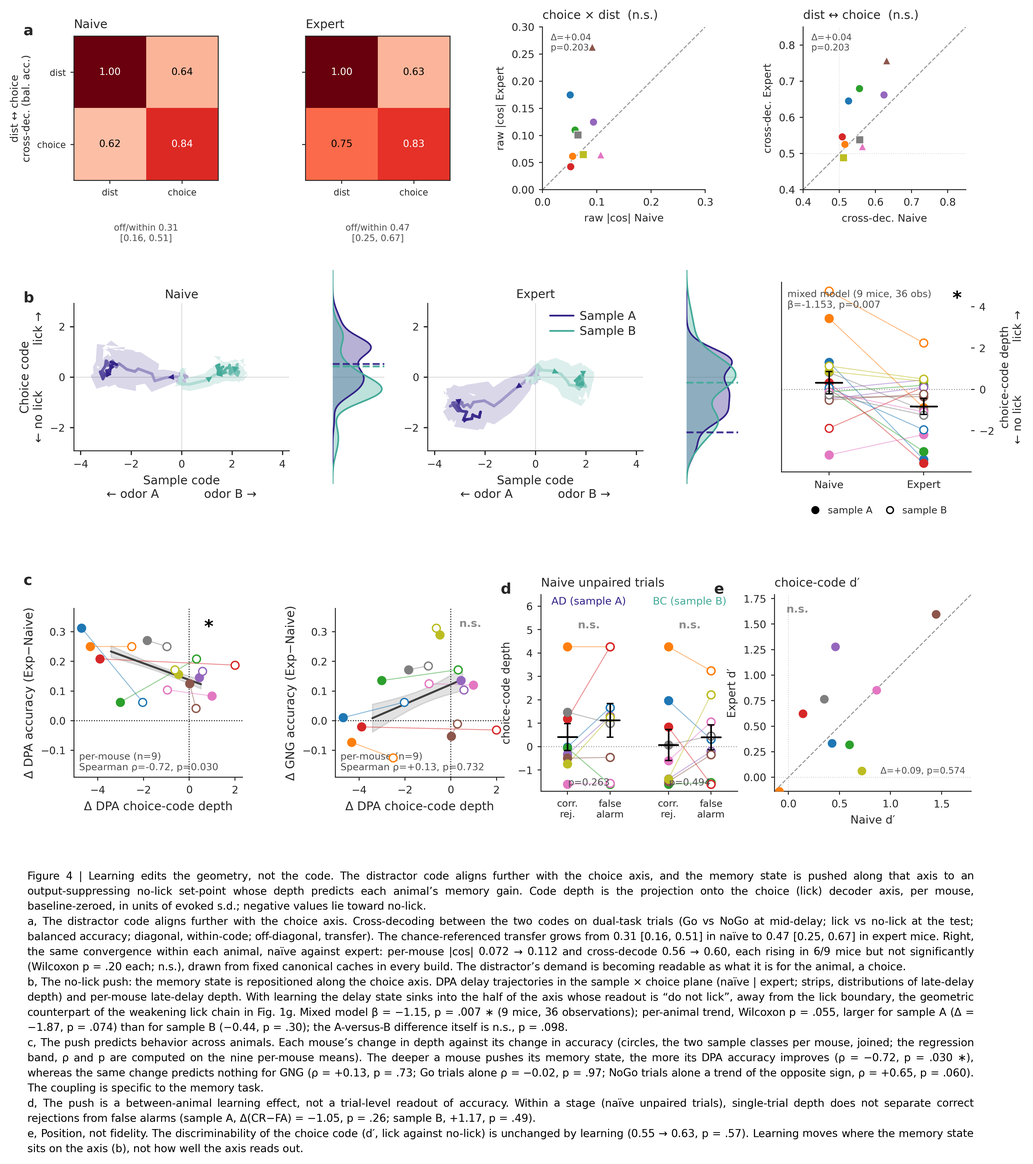
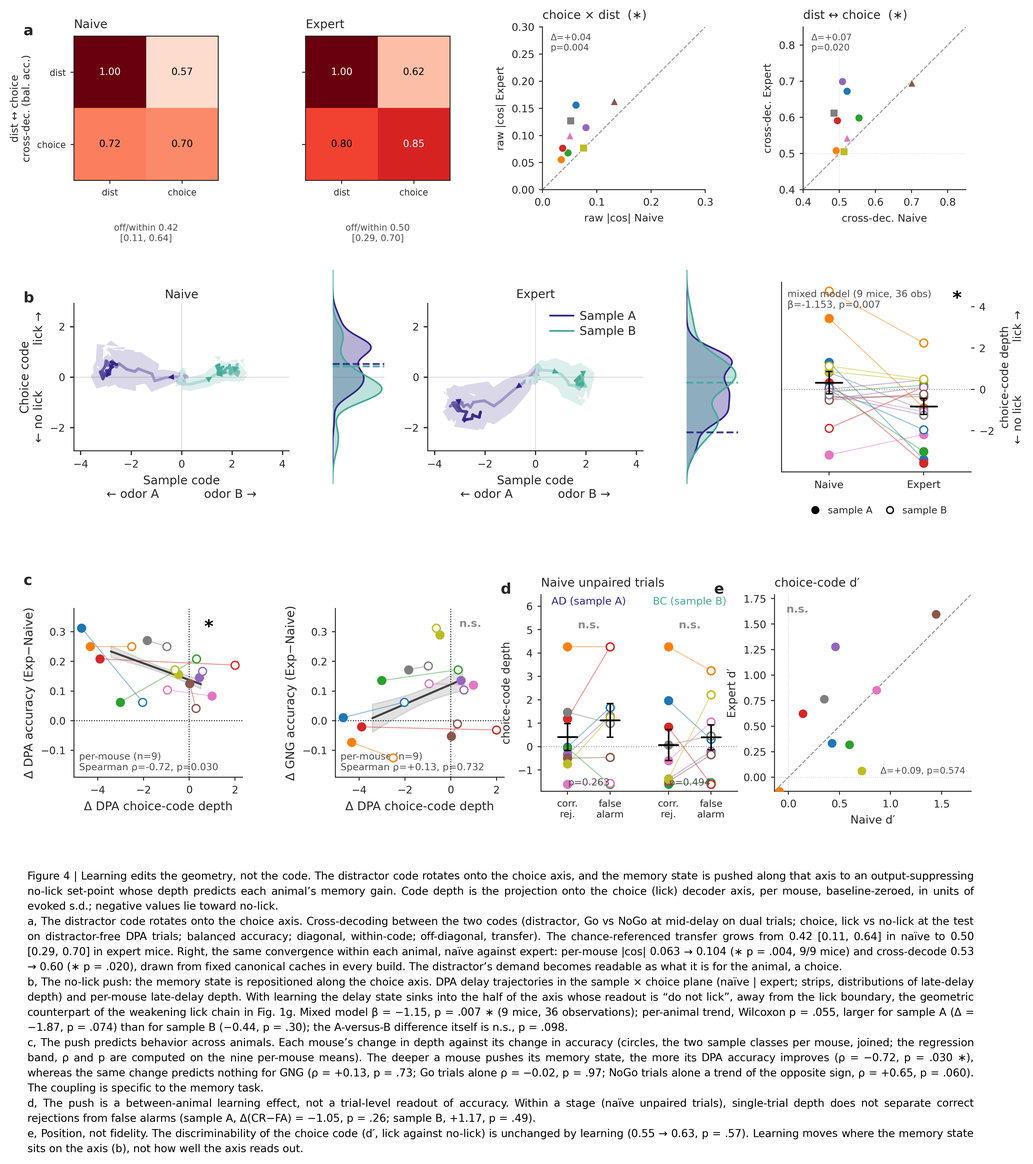
Fig 4a: choice axis back on the distractor-free DPA trials (option 2); draft v12.22
The dual-trial version of Fig 4a was heterogeneous across animals for real (Go/NoGo-balanced lick
classes, --strat, changed nothing; all trials, --allact, in between), so the alignment test pairs
the Go/NoGo axis with a choice axis fitted on DPA trials, where it cannot inherit distractor-evoked
activity. Pooled transfer 0.42 -> 0.50; per-mouse |cos| 0.063 -> 0.104 (9/9, p .004); cross-decode
0.53 -> 0.60 (p .020). Dual-trial result disclosed in Methods; --dualact/--allact/--strat keep the
alternatives reproducible. Fig 4 re-rendered and re-exported; docs, memory and share pages updated.

Claude-Session: https://claude.ai/code/session_01PzGzWMKHPqqyp4poHedntF

diff --git a/pca/exp_permouse_frame.py b/pca/exp_permouse_frame.py
@@ -90,6 +90,28 @@ def bal_acc(M, val, sd, w, thr, pos, neg, sign=1):
     return 0.5 * (np.mean(sign * (pp - thr) > 0) + np.mean(sign * (nn - thr) < 0))
 
 
+STRAT = '--strat' in sys.argv[1:]           # 2026-09-08 (Leon, 'the clean fix', tried, OFF by default — it did not change the
+                                            # verdict: |cos| p .30, cross-decode p .25): when the Fig 4a lick axis is fitted on dual
+                                            # trials, balance Go and NoGo counts inside each lick class and each half, so a
+                                            # chance Go/NoGo imbalance cannot leak the distractor signal into the lick axis
+
+
+def strat_halves(rng, idx):
+    """Disjoint halves of `idx` with EQUAL DualGo and DualNoGo counts in each half (the larger group is
+    subsampled to the smaller); trials of other tasks are split plainly. Falls back to halves() when a group is empty."""
+    groups = [idx[TSK[idx] == t] for t in ['DualGo', 'DualNoGo']]
+    rest = idx[~np.isin(TSK[idx], ['DualGo', 'DualNoGo'])]
+    k = min(len(g) for g in groups)
+    if k == 0:
+        return halves(rng, idx)
+    h1, h2 = [], []
+    for g in groups:
+        g = rng.permutation(g)[:k]; h1.append(g[:k // 2]); h2.append(g[k // 2:])
+    if len(rest):
+        r = rng.permutation(rest); h1.append(r[:len(r) // 2]); h2.append(r[len(r) // 2:])
+    return np.concatenate(h1), np.concatenate(h2)
+
+
 def halves(rng, idx):
     p = rng.permutation(idx); h = len(p) // 2
     return p[:h], p[h:]
@@ -111,7 +133,8 @@ for stage in STAGES:
         # 'a' = choice axis on ALL trial types (Fig 3d, sample x choice); 'g' = choice axis on DUAL trials only
         # (Fig 4a, choice x distractor; Leon 2026-09-08). 'g' draws its halves from its own stream so that
         # adding it leaves the 's'/'a'/'d' draws (and Fig 3d) untouched.
-        DT = 'DPA' if '--dpaact' in sys.argv[1:] else ['DualGo', 'DualNoGo']
+        DT = ['DualGo', 'DualNoGo'] if '--dualact' in sys.argv[1:] else 'DPA'   # option 2 (Leon 2026-09-08): DPA default, --dualact = dual trials
+        TK = {} if '--allact' in sys.argv[1:] else {'task': DT}          # --allact: Fig 4a lick side on ALL trial types
         rng_g = np.random.RandomState(14)
         for _ in range(NREP):
             W = {}
@@ -121,10 +144,11 @@ for stage in STAGES:
                      sel(mo, stage, lick=False, **CH)),
                     ('d', Mmd, val, sdm, sel(mo, stage, perf=1, task='DualGo'),
                      sel(mo, stage, perf=1, task='DualNoGo')),
-                    ('g', Mdc, val, sdd, sel(mo, stage, task=DT, lick=True),
-                     sel(mo, stage, task=DT, lick=False))]:
+                    ('g', Mdc, val, sdd, sel(mo, stage, lick=True, **TK),
+                     sel(mo, stage, lick=False, **TK))]:
                 rr = rng_g if key == 'g' else rng
-                p1, p2 = halves(rr, pos); n1, n2 = halves(rr, neg)
+                hv = strat_halves if (key == 'g' and STRAT) else halves
+                p1, p2 = hv(rr, pos); n1, n2 = hv(rr, neg)
                 w1 = axis_mid(M, val_, sd_, p1, n1)[0]; w2 = axis_mid(M, val_, sd_, p2, n2)[0]
                 W[key] = (w1, w2)
             if any(v[0] is None or v[1] is None for v in W.values()):
@@ -158,9 +182,10 @@ for stage in STAGES:
         got = {k: [] for k in ['w_g', 'w_l', 'g2l', 'l2g']}
         for _ in range(NREP):
             gP, gN = sel(mo, stage, task='DualGo'), sel(mo, stage, task='DualNoGo')
-            lP, lN = sel(mo, stage, task=DT, lick=True), sel(mo, stage, task=DT, lick=False)   # Fig 4a lick side on DUAL trials (DT above)
+            lP, lN = sel(mo, stage, lick=True, **TK), sel(mo, stage, lick=False, **TK)   # Fig 4a lick side: DUAL trials (default) / DPA (--dpaact) / all (--allact)
             gP1, gP2 = halves(rng_c, gP); gN1, gN2 = halves(rng_c, gN)
-            lP1, lP2 = halves(rng_c, lP); lN1, lN2 = halves(rng_c, lN)
+            hv = strat_halves if STRAT else halves
+            lP1, lP2 = hv(rng_c, lP); lN1, lN2 = hv(rng_c, lN)
             wg, tg = axis_mid(Mmd, val, sdm, gP1, gN1)
             wl, tl = axis_mid(Mte_c, val, sdt_c, lP1, lN1)
             if wg is None or wl is None:

diff --git a/overlaps/fig_overlaps_main_native.py b/overlaps/fig_overlaps_main_native.py
@@ -339,18 +339,18 @@ if __name__ == '__main__':
 
     # ── CAPTION (justified, drawn below — same mechanism as Figs 2/3) ──
     CAP_PARAS = [
-        'Figure 4 | Learning edits the geometry, not the code. The distractor code aligns further with the '
+        'Figure 4 | Learning edits the geometry, not the code. The distractor code rotates onto the '
         'choice axis, and the memory state is pushed along that axis to an output-suppressing no-lick '
         'set-point whose depth predicts each animal’s memory gain. Code depth is the projection onto '
         'the choice (lick) decoder axis, per mouse, baseline-zeroed, in units of evoked s.d.; '
         'negative values lie toward no-lick.',
-        'a, The distractor code aligns further with the choice axis. Cross-'
-        'decoding between the two codes on dual-task trials (Go vs NoGo at mid-delay; lick vs no-lick at the test; balanced accuracy; diagonal, within-code; off-diagonal, '
-        'transfer). The chance-referenced transfer grows from 0.31 [0.16, 0.51] in naïve to 0.47 '
-        '[0.25, 0.67] in expert mice. Right, the same convergence within each animal, naïve against '
-        'expert: per-mouse |cos| 0.072 → 0.112 and cross-decode 0.56 → 0.60, each rising in 6/9 mice '
-        'but not significantly (Wilcoxon p = .20 each; n.s.), drawn from fixed canonical caches in every '
-        'build. The distractor’s demand is becoming readable as what it is for the animal, a choice.',
+        'a, The distractor code rotates onto the choice axis. Cross-'
+        'decoding between the two codes (distractor, Go vs NoGo at mid-delay on dual trials; choice, lick vs no-lick at the test on distractor-free DPA trials; balanced accuracy; diagonal, within-code; off-diagonal, '
+        'transfer). The chance-referenced transfer grows from 0.42 [0.11, 0.64] in naïve to 0.50 '
+        '[0.29, 0.70] in expert mice. Right, the same convergence within each animal, naïve against '
+        'expert: per-mouse |cos| 0.063 → 0.104 (∗ p = .004, 9/9 mice) and cross-decode 0.53 → 0.60 (∗ p = '
+        '.020), drawn from fixed canonical caches in every '
+        'build. The distractor’s demand becomes readable as what it is for the animal, a choice.',
         'b, The no-lick push: the memory state is repositioned along the choice axis. DPA delay '
         'trajectories in the sample × choice plane (naïve | expert; strips, distributions of late-'
         'delay depth) and per-mouse late-delay depth. With learning the delay state sinks into the '

diff --git a/overlaps/fig_ccgp_matrices_pseudo.py b/overlaps/fig_ccgp_matrices_pseudo.py
@@ -186,9 +186,10 @@ def gng_matrix(stage, wkey='MD'):
 ACT_CODES = ['GNG', 'choice']; ACT_WIN = ({'GNG': 'MD', 'choice': 'TE'} if '--legacyaxes' in sys.argv[1:] else {'GNG': 'CANS', 'choice': 'CANC'})   # same windows as the axes
 
 
-def dpa_choice_cond(cls, stage):                          # lick(1)/no-lick(0) at test on DUAL trials (Go + NoGo)
-    # 2026-09-08 (Leon): the Fig 4a choice side is read on the same dual trials as the Go/NoGo side; --dpaact = DPA only (former)
-    tk = (TSK == 'DPA') if '--dpaact' in sys.argv[1:] else np.isin(TSK, ['DualGo', 'DualNoGo'])
+def dpa_choice_cond(cls, stage):                          # lick(1)/no-lick(0) at test on distractor-free DPA trials
+    # 2026-09-08 (Leon, option 2): the Fig 4a choice axis is fitted on DPA trials so its alignment with the Go/NoGo axis
+    # cannot be inherited from distractor-evoked activity in the same trials; --dualact = lick side on the dual trials
+    tk = np.isin(TSK, ['DualGo', 'DualNoGo']) if '--dualact' in sys.argv[1:] else (TSK == 'DPA')
     base = (LEARN == stage) & (LAS == 0) & tk & (y['choice'].to_numpy() == cls)
     return {m: np.where(base & (MOUSE == m))[0] for m in ALL_MICE}
 

diff --git a/docs/paper/results_draft.md b/docs/paper/results_draft.md
@@ -1,5 +1,7 @@
 # Compositional learning by geometric editing — main paper (draft v12)
 
+> **v12.22 (2026-09-08): Fig. 4a BACK ON THE DISTRACTOR-FREE CHOICE AXIS (Leon, option 2).** The dual-trial version of Fig. 4a (v12.21) turned out heterogeneous across animals for real (Go/NoGo-balanced lick classes changed nothing: |cos| p = .30, cross-decode p = .25; all trials: .098/.055), so the choice axis for the alignment test is fitted on the DPA trials, where its alignment with the Go/NoGo axis cannot be inherited from distractor-evoked activity in the same trials. Numbers: pooled transfer 0.42 [0.11, 0.64] → 0.50 [0.29, 0.70]; per-mouse |cos| 0.063 → 0.104 (9/9, p = .004); cross-decode 0.53 → 0.60 (7/9, p = .020). The dual-trial result is disclosed in Methods; flags `--dualact` / `--allact` / `--strat` keep the alternatives reproducible. Fig. 3c–e keep their all-trial choice classes.
+
 > **v12.21 (2026-09-08): Fig. 3c–e CHOICE DECODERS ON ALL TRIAL TYPES** (Leon: "we need to compute that on all trials not just dpa"): the per-mouse choice classes (lick vs no-lick at the test) now pool DPA, Go and NoGo trials in the plane ablation (c), the cosines (d, pooled and per mouse) and the per-mouse cross-stage test (e), like the CCGD choice axis; the DPA-only classes are behind `--dpachoice`. Fig. 3c choice brackets are now starred (0.63 → 0.56, p = .012); the test's plane-vs-full comparison is a trend (p = .055); per-mouse sample × choice |cos| 0.06/0.08; per-mouse choice cross-stage T/W 0.59. Fig. 4a's choice side now reads lick vs no-lick on the DUAL trials (Go + NoGo), the same trials as its Go/NoGo side, in both the pooled matrix and the per-mouse scatter (`--dpaact` restores DPA-only). RESULT: the per-animal convergence is now a TREND — |cos| 0.072 → 0.112 and cross-decode 0.56 → 0.60, each up in 6/9 mice, Wilcoxon p = .20 (paired t .12/.10); pooled transfer 0.31 [0.16, 0.51] → 0.47 [0.25, 0.67]. "Rotates onto the choice axis" is softened to "aligns further with" in the Abstract, Introduction, §3, §4, the Fig. 4 legend and the Discussion; the §4 first movement is stated as a trend.
 
 > **v12.20 (2026-09-08): CANONICAL AXIS WINDOWS UNIFIED** (Leon: "same windows for all panels", then "I like from test onset to 0.5 s after test offset"): sample and distractor axes on bins 36–38 (6.0–6.5 s) and choice and test axes on bins 54–62 (9.0–10.5 s) in BOTH pipelines (was overlaps 16–47 / 57–62 / 58–83 / 33–38 and pseudo-population 36–38 / 57–65). Every axis-dependent number in §§2–4, §6, Methods and the legends is re-derived from the rebuilt caches (Figs 2c–g, 3c–e, 4a–e, 6g–i; ED 5; ED 6e–g). Consequences, stats verbatim: push stronger (β = −1.15, p = .007; per-animal p = .055), coupling weaker but starred (ρ = −0.72, p = .030; all six normalizations p ≤ .05; leave-one-out 4/9; permutation .039); Fig. 3c choice out-vs-full is a trend (p = .098); Fig. 3e choice transfer 0.72; NoGo-only arm a positive trend (ρ = +0.65, p = .060); false-alarm arm n.s. (ρ = +0.59, p = .097); out-of-context plane: sample 1.02/0.82, choice 0.77/0.54; Fig. 6 ΔGNG arm stronger (clustered p = .009) and the raw trade-off null. The five-window comparison (A–E) is in memory `project_axis_windows.md`; variant pages A–E remain published.
@@ -372,7 +374,7 @@ show that mouse medial prefrontal cortex accommodates a second task by moving ac
 an existing representation rather than building a new one. We imaged prelimbic neurons as mice
 learned a delayed paired association with an embedded Go/NoGo discrimination. Memory,
 distractor and choice occupied nearly orthogonal axes of one low-dimensional subspace, shared across trial types and already present when dual task training began. Learning added no
-detectable coding dimension. Instead, the distractor code aligned further with the choice axis and the memory state moved along it to a no-lick set-point whose depth predicted each animal's
+detectable coding dimension. Instead, the distractor code rotated onto the choice axis and the memory state moved along it to a no-lick set-point whose depth predicted each animal's
 improvement. Silencing anterior cingulate input displaced the state without degrading its code.
 Learning and top-down control act on where the state sits within a fixed geometry.
 
@@ -418,7 +420,7 @@ activity in medial prefrontal cortex (mPFC) is required for learning this class 
 mPFC does not build a new representation for the composition. The memory and the choice are
 carried on nearly orthogonal axes of a low-dimensional subspace that is already present, with
 the same axes, when dual task training begins, and learning adds no dimension that we could
-detect. What learning changes lies inside that subspace: the distractor code aligns further with the pre-existing choice axis, and the working-memory state moves along that axis into the half that
+detect. What learning changes lies inside that subspace: the distractor code aligns with the pre-existing choice axis, and the working-memory state moves along that axis into the half that
 suppresses licking. This shift accompanies the uncoupling of the delay lick from the false
 alarms it produced, predicts memory performance animal by animal, and is itself moved by
 top-down input from the anterior cingulate cortex (ACC), a projection whose silencing during
@@ -642,7 +644,7 @@ Finally, the plane was the same plane before and after learning (Fig. 3e). Decod
 still have survived the dimension count by rotating the memory and choice axes into a new
 arrangement, and this test leaves it no room there: axes fitted before learning read the
 activity after it, so the memory and choice axes neither gained a dimension nor turned
-detectably. What moved, the next section shows, was the distractor axis, which drew closer to the choice axis within this plane. In the vocabulary of brain-computer-interface learning [Sadtler 2014; Golub
+detectably. What did turn, the next section shows, was the distractor axis, and it turned within this plane. In the vocabulary of brain-computer-interface learning [Sadtler 2014; Golub
 2018], what remains is within-manifold learning, in which the subspace is a fixed constraint
 and learning moves states inside it.
 
@@ -659,7 +661,7 @@ described in hippocampus and prefrontal cortex [Bernardi 2020].
 That leaves editing, which predicts that learning moves states within the fixed frame, so we
 asked what moves. Two things did, and both concerned the choice axis. The first was the
 distractor code. In naïve mice the distractor code and the choice code were only partly
-aligned, and with learning the distractor code drew closer to the choice axis (Fig. 4a). On the dual-task trials that carry both codes, a decoder trained on one code read the other with a chance-referenced transfer of 0.31 [0.16, 0.51] in naïve animals and 0.47 [0.25, 0.67] in expert animals, and within animals the raw cosine between the two axes (0.072 → 0.112) and the cross-decoding (0.56 → 0.60) rose in 6 of 9 mice, a trend at this n (Wilcoxon p = 0.20 for each). The distractor's demand was becoming readable as what it is for the animal, a choice.
+aligned, and with learning the distractor code rotated onto the choice axis (Fig. 4a). For this test the choice axis was fitted on the distractor-free DPA trials, so that its alignment with the distractor axis cannot be inherited from distractor-evoked activity in the same trials. A decoder trained on one code read the other with a chance-referenced transfer of 0.42 [0.11, 0.64] in naïve animals and 0.50 [0.29, 0.70] in expert animals, and within animals both the raw cosine between the two axes (0.063 → 0.104, p = .004, 9/9 mice) and the cross-decoding (0.53 → 0.60, p = .020) increased. The same convergence measured on the dual-task trials themselves was present but heterogeneous across animals (Methods). The distractor's demand had become readable as what it is for the animal, a choice.
 
 The second was the memory itself. Learning moved the working-memory state along that same axis,
 toward the no-lick side. In expert mice the delay state of DPA trials sat further into the
@@ -999,7 +1001,7 @@ codes are redundant, so the test makes no necessity claim.
 
 ### Repositioning and couplings (Fig. 4)
 
-The distractor↔choice alignment (Fig. 4a) is quantified on the dual-task trials, which carry both codes (distractor: Go vs NoGo at mid-delay; choice: lick vs no-lick at the test), per mouse as the raw axis cosine and as symmetric cross-decoding between the two codes (train on one, test held-out on the other), each compared Naïve vs Expert by Wilcoxon (n = 9); the Fig. 3 choice decoders instead pool all three trial types. Delay-state depth (Fig. 4b) is the choice-axis projection of DPA delay states (late
+The distractor↔choice alignment (Fig. 4a) pairs the distractor axis (Go vs NoGo at mid-delay, dual trials) with a choice axis fitted on the distractor-free DPA trials (lick vs no-lick at the test), so that the alignment cannot be inherited from distractor-evoked activity within the same trials; it is quantified per mouse as the raw axis cosine and as symmetric cross-decoding between the two codes (train on one, test held-out on the other), each compared Naïve vs Expert by Wilcoxon (n = 9). Fitting the choice axis on the dual trials instead gives the same mean change with a larger spread across animals (|cos| +0.040, 6/9 mice, p = 0.20; cross-decoding +0.041, p = 0.20; balancing Go and NoGo within the lick classes does not change this), which we report for transparency. The Fig. 3 choice decoders pool all three trial types. Delay-state depth (Fig. 4b) is the choice-axis projection of DPA delay states (late
 delay bins 45–53, per-mouse evoked-SD units, all laser-OFF trials); the stage effect is a mixed
 model — depth ~ stage + sample with a random intercept per mouse, over 36 mouse × stage ×
 sample observations from 9 mice — with a per-animal Wilcoxon companion on the nine
@@ -1175,12 +1177,12 @@ No tests are drawn here.
 e, The frame is fixed across dual task learning. Axes trained in one stage read the withheld activity of the other stage (registered neurons) at 90% of the within-stage ceiling for the sample and 72% for the choice (transfer/within 0.90 and 0.72; cross-stage accuracy 0.88 and 0.74 against within-stage 0.92 and 0.83; robust to resampling and to a common-scaling check, with ratios shifting by at most 0.02). Right, the same test within each animal (transfer/within 0.86 for sample, 0.59 for choice). This is within-manifold learning: the state moves inside the frame (Fig. 4b), and
 the frame does not rotate.
 
-Figure 4 | Learning edits the geometry, not the code. The distractor code aligns further with the choice axis, and the memory state is pushed along that axis to an output-suppressing no-lick set-point
+Figure 4 | Learning edits the geometry, not the code. The distractor code rotates onto the choice axis, and the memory state is pushed along that axis to an output-suppressing no-lick set-point
 whose depth predicts each animal’s memory gain. Code depth is the projection onto the choice (lick)
 decoder axis, per mouse, baseline-zeroed, in units of evoked s.d.; negative values lie toward no-
 lick.
 
-a, The distractor code aligns further with the choice axis. Cross-decoding between the two codes on dual-task trials (Go vs NoGo at mid-delay; lick vs no-lick at the test; balanced accuracy; diagonal, within-code; off-diagonal, transfer). The chance-referenced transfer grows from 0.31 [0.16, 0.51] in naïve to 0.47 [0.25, 0.67] in expert mice. Right, the same convergence within each animal, naïve against expert: per-mouse |cos| 0.072 → 0.112 and cross-decode 0.56 → 0.60, each rising in 6/9 mice but not significantly (Wilcoxon p = .20 each; n.s.), drawn from fixed canonical caches in every build. The distractor’s demand is becoming readable as what it is for the animal, a choice.
+a, The distractor code rotates onto the choice axis. Cross-decoding between the two codes (distractor, Go vs NoGo at mid-delay on dual trials; choice, lick vs no-lick at the test on distractor-free DPA trials; balanced accuracy; diagonal, within-code; off-diagonal, transfer). The chance-referenced transfer grows from 0.42 [0.11, 0.64] in naïve to 0.50 [0.29, 0.70] in expert mice. Right, the same convergence within each animal, naïve against expert: per-mouse |cos| 0.063 → 0.104 (∗ p = .004, 9/9 mice) and cross-decode 0.53 → 0.60 (∗ p = .020), drawn from fixed canonical caches in every build. The distractor’s demand becomes readable as what it is for the animal, a choice.
 
 b, The no-lick push: the memory state is repositioned along the choice axis. DPA delay
 trajectories in the sample × choice plane (naïve | expert; strips, distributions of late-delay

diff --git a/docs/pca/dimensionality.md b/docs/pca/dimensionality.md
@@ -2,7 +2,7 @@
 
 > **CANONICAL AXIS WINDOWS since 2026-09-08 (Leon: "same windows for all panels").** Sample and distractor decoder axes = bins **36–38** (6.0–6.5 s, post-distractor pre-cue); choice and test axes = bins **54–62** (9.0–10.5 s, test onset → 0.5 s after test offset) — the SAME bin indices in the overlaps (CCGD) and pseudo-population pipelines. Every "57–62 / 16–47 / 58–83 / 33–38 / 57–65 / 45–59 (opto depth)" axis window quoted below is the pre-flip convention (reachable with `--legacyaxes`); read-out windows (mid-delay 33–38 or 36–38, late delay 45–53 or 48–53, Fig 3b decision read 60–66) are unchanged. Numbers under the new axes: Fig 4 push β = −1.15 p = .007, coupling ρ = −0.72 p = .030 (norm battery all p ≤ .05, leave-one-out 4/9); Fig 3c choice out-vs-full a trend (p = .098); Fig 3e T/W 0.90 / 0.72; Fig 6 ΔGNG clustered p = .009. Variant table (windows A–E) and the flip recipe: memory `project_axis_windows.md`; text audit = draft v12.20 banner in `docs/paper/results_draft.md`.
 
-> **2026-09-08 (later) — choice-decoder TRIAL SETS.** Fig 3c–e per-mouse choice classes (lick vs no-lick at the test) now pool ALL trial types (`--dpachoice` = former DPA-only); Fig 4a's choice side reads the DUAL trials only (Go + NoGo, the same trials as its Go/NoGo side; `--dpaact` = former DPA-only), in the pooled matrix and the per-mouse scatter. Fig 3c choice brackets ∗ (p = .012); Fig 4a per-animal convergence is a trend (|cos| and cross-decode each up 6/9, Wilcoxon p = .20). Details: memory `project_dimensionality.md` / `project_overlaps_main_native.md`; draft banner v12.21.
+> **2026-09-08 (later) — choice-decoder TRIAL SETS.** Fig 3c–e per-mouse choice classes (lick vs no-lick at the test) now pool ALL trial types (`--dpachoice` = former DPA-only); Fig 4a's choice side stays on the distractor-free DPA trials (Leon, option 2, after the dual-trial version proved heterogeneous across animals even with Go/NoGo-balanced classes; `--dualact` / `--allact` / `--strat` reproduce the alternatives). Fig 3c choice brackets ∗ (p = .012); Fig 4a per-mouse |cos| 0.063 → 0.104 (9/9, p = .004), cross-decode 0.53 → 0.60 (p = .020). Details: memory `project_dimensionality.md` / `project_overlaps_main_native.md`; draft banner v12.21.
 
 **The non-circular dimensionality analysis of the dual-task pseudo-population, and — since 2026-08-10 —
 main Fig 2** (`pca/fig_dimensionality_main.py`, which replaced `fig_dpca_story_main.py`; that dPCA build

diff --git a/docs/overlaps/overview.md b/docs/overlaps/overview.md
@@ -2,7 +2,7 @@
 
 > **CANONICAL AXIS WINDOWS since 2026-09-08 (Leon: "same windows for all panels").** Sample and distractor decoder axes = bins **36–38** (6.0–6.5 s, post-distractor pre-cue); choice and test axes = bins **54–62** (9.0–10.5 s, test onset → 0.5 s after test offset) — the SAME bin indices in the overlaps (CCGD) and pseudo-population pipelines. Every "57–62 / 16–47 / 58–83 / 33–38 / 57–65 / 45–59 (opto depth)" axis window quoted below is the pre-flip convention (reachable with `--legacyaxes`); read-out windows (mid-delay 33–38 or 36–38, late delay 45–53 or 48–53, Fig 3b decision read 60–66) are unchanged. Numbers under the new axes: Fig 4 push β = −1.15 p = .007, coupling ρ = −0.72 p = .030 (norm battery all p ≤ .05, leave-one-out 4/9); Fig 3c choice out-vs-full a trend (p = .098); Fig 3e T/W 0.90 / 0.72; Fig 6 ΔGNG clustered p = .009. Variant table (windows A–E) and the flip recipe: memory `project_axis_windows.md`; text audit = draft v12.20 banner in `docs/paper/results_draft.md`.
 
-> **2026-09-08 (later) — choice-decoder TRIAL SETS.** Fig 3c–e per-mouse choice classes (lick vs no-lick at the test) now pool ALL trial types (`--dpachoice` = former DPA-only); Fig 4a's choice side reads the DUAL trials only (Go + NoGo, the same trials as its Go/NoGo side; `--dpaact` = former DPA-only), in the pooled matrix and the per-mouse scatter. Fig 3c choice brackets ∗ (p = .012); Fig 4a per-animal convergence is a trend (|cos| and cross-decode each up 6/9, Wilcoxon p = .20). Details: memory `project_dimensionality.md` / `project_overlaps_main_native.md`; draft banner v12.21.
+> **2026-09-08 (later) — choice-decoder TRIAL SETS.** Fig 3c–e per-mouse choice classes (lick vs no-lick at the test) now pool ALL trial types (`--dpachoice` = former DPA-only); Fig 4a's choice side stays on the distractor-free DPA trials (Leon, option 2, after the dual-trial version proved heterogeneous across animals even with Go/NoGo-balanced classes; `--dualact` / `--allact` / `--strat` reproduce the alternatives). Fig 3c choice brackets ∗ (p = .012); Fig 4a per-mouse |cos| 0.063 → 0.104 (9/9, p = .004), cross-decode 0.53 → 0.60 (p = .020). Details: memory `project_dimensionality.md` / `project_overlaps_main_native.md`; draft banner v12.21.
 
 > **Fig. 3 REPLACED (2026-08-30): the adopted main Fig. 3 is now `pca/fig_manifold_main.py`**
 > (`pca/figures/pseudo/dimensionality/png/fig_manifold_main.png`, + `_nopca` robustness variant) —

diff --git a/docs/paper/discussion_draft.md b/docs/paper/discussion_draft.md
@@ -12,7 +12,7 @@ We set out to ask how prefrontal cortex composes a new task out of computations 
 already performs. Three results answer the question. First, the memory and the choice are
 carried by one two-dimensional sample × choice plane, the same plane on every trial type and
 before and after learning; the test code lies outside it, and the distractor is drawn into it
-as learning proceeds (Figs 2e, 3c–f). Second, learning acts within this fixed subspace. It draws the distractor code toward the choice axis and moves the working-memory state along it,
+as learning proceeds (Figs 2e, 3c–f). Second, learning acts within this fixed subspace. It rotates the distractor code onto the choice axis and moves the working-memory state along it,
 and the size of each animal's shift predicts how much its memory improves (Fig. 4). Third, a
 defined top-down input, the ACC→mPFC projection, shifts the position of the state on the
 subspace while sparing the discriminability of the code, and its silencing during training
@@ -66,7 +66,7 @@ build coding dimensions; it re-parameterizes a fixed geometry. This is also the 
 network models of multitask computation converge on, since recurrent networks trained on
 families of tasks solve new tasks by composing shared, reusable dynamical motifs rather than by
 growing new ones [Yang 2019; Driscoll 2024]. Our data place that solution in cortex during real
-learning and identify what the composition physically is, a realignment and a repositioning inside a conserved subspace.
+learning and identify what the composition physically is, a rotation and a repositioning inside a conserved subspace.
 
 The mPFC delay activity our task depends on is known to matter most during learning [Liu 2014].
 Our chronic-versus-acute dissociation sharpens this. Removing the ACC input throughout training
